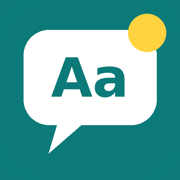
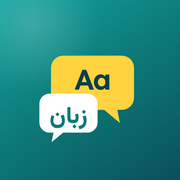
لوگوی تازه، صفحهٔ ثبتنام/ورود استاندارد، چیدمان دسکتاپ با نوار کناری، دکمهٔ نصب برنامه، بهروزرسانی خودکار
Claude-Session: https://claude.ai/code/session_01TUVMHmv6wLjMQ2dWp24Uw7

diff --git a/app.js b/app.js
@@ -73,6 +73,7 @@ const makeCode = () => 'ZD1.' + btoa(unescape(encodeURIComponent(JSON.stringify(
 function useCode(c) { const d = JSON.parse(decodeURIComponent(escape(atob(c.trim().replace(/^ZD1\./, ''))))); deepMerge(G.settings.prov, d.p || {}); if (d.b) G.settings.brain = d.b; if (d.v) G.settings.voiceFa = d.v; if (d.l) G.settings.listen = d.l; saveG('settings'); }
 function deepMerge(a, b) { for (const k in b) { if (b[k] && typeof b[k] === 'object' && !Array.isArray(b[k])) a[k] = deepMerge(a[k] || {}, b[k]); else a[k] = b[k]; } return a; }
 const saveG = k => lsSet('zd:' + k, G[k]);
+G.settings.passScore = 95;
 if (G.settings.teacher === 'سارا') { G.settings.teacher = 'رستا'; lsSet('zd:settings', G.settings); }
 if (G.settings.prov.gemini.model === 'gemini-2.5-flash') { G.settings.prov.gemini.model = 'gemini-3.1-flash-lite'; G.settings.geminiTtsModel = 'gemini-3.8-flash-tts'; saveG('settings'); }
 const GEM_FALLBACK = ['gemini-3.1-flash-lite', 'gemini-3.5-flash', 'gemini-flash-latest', 'gemini-3.5-flash-lite'];
@@ -117,7 +118,7 @@ function weakWords(limit = 20) {
   return Object.entries(U.srs).filter(([, s]) => s.wrong > 0 && s.box <= 2).sort((a, b) => b[1].wrong - a[1].wrong).slice(0, limit).map(([k]) => wordFromId(k)).filter(Boolean);
 }
 function forgottenFromPrevious(cur) { // واژههای درسهای قبل که فراموش شدهاند
-  return Object.entries(U.srs).filter(([k, s]) => { const u = unitById(k.split(':')[0]); return u && cur && u.idx < cur.idx && s.lastWrong && s.box <= 1; }).slice(0, 12).map(([k]) => wordFromId(k)).filter(Boolean);
+  return Object.entries(U.srs).filter(([k, s]) => { const u = unitById(k.split(':')[0]); return u && cur && u.id !== cur.id && (u.track === 'ws' ? isMastered(u) : u.idx < cur.idx) && s.lastWrong && s.box <= 1; }).slice(0, 12).map(([k]) => wordFromId(k)).filter(Boolean);
 }
 
 /* ───────── پیشرفت، باز شدن درسها و امتیاز ───────── */
@@ -513,6 +514,23 @@ function sheet(html) { const bg = document.createElement('div'); bg.className = 
 const loading = (t = 'در حال فکر کردن…') => `<div class="card row"><span class="typing"><i></i><i></i><i></i></span><span class="muted">${t}</span></div>`;
 function needAI(el) { if (hasAI() || firstKeyed()) return false; el.innerHTML = `<div class="card stack"><b>این بخش با هوش مصنوعی کار میکند.</b><span class="muted">یک کلید رایگان Gemini بگیر و در تنظیمات بگذار؛ دو دقیقه طول میکشد.</span><a class="btn" href="#settings">رفتن به تنظیمات</a></div>`; return true; }
 
+/* ───────── نصب برنامه (آیکن روی صفحهٔ گوشی و کامپیوتر) ───────── */
+let installEvt = null;
+addEventListener('beforeinstallprompt', e => { e.preventDefault(); installEvt = e; if (location.hash === '' || location.hash === '#home') { const b = $('#install-box'); if (b) b.innerHTML = installHTML(); bindInstall(); } });
+addEventListener('appinstalled', () => { installEvt = null; toast('«زبان دوم» نصب شد 🎉 از این به بعد از آیکنش وارد شو.'); $('#install-box') && ($('#install-box').innerHTML = ''); });
+const isStandalone = () => matchMedia('(display-mode: standalone)').matches || navigator.standalone === true;
+const isIOS = () => /iphone|ipad|ipod/i.test(navigator.userAgent) || (navigator.platform === 'MacIntel' && navigator.maxTouchPoints > 1);
+function installHTML() { if (isStandalone() || lsGet('zd:installHide', '') === isoDay()) return ''; if (!installEvt && !isIOS()) return ''; return `<div class="install"><img src="icon-192.png" alt="" style="width:40px;height:40px;border-radius:10px"><b>«زبان دوم» را روی ${isIOS() ? 'آیفونت' : 'دستگاهت'} نصب کن تا همیشه با یک لمس بازش کنی.</b><button id="inst">نصب</button><button id="insx" aria-label="بعداً" style="background:transparent;color:inherit;padding:8px">✕</button></div>`; }
+function bindInstall() {
+  $('#insx') && ($('#insx').onclick = () => { lsSet('zd:installHide', isoDay()); $('#install-box').innerHTML = ''; });
+  $('#inst') && ($('#inst').onclick = async () => {
+    if (installEvt) { installEvt.prompt(); const r = await installEvt.userChoice; if (r.outcome === 'accepted') installEvt = null; return; }
+    sheet(`<div class="stack" style="text-align:center"><img src="icon-192.png" alt="" style="width:72px;height:72px;border-radius:18px;align-self:center"><b style="font-size:18px">نصب روی آیفون</b>
+    <div class="stack" style="text-align:right"><div>۱. این صفحه باید در <b>Safari</b> باز باشد.</div><div>۲. دکمهٔ <b>اشتراکگذاری</b> را بزن (مربع با فلش رو به بالا، پایین صفحه).</div><div>۳. کمی پایین برو و <b>Add to Home Screen</b> را بزن.</div><div>۴. بالا سمت راست <b>Add</b> را بزن.</div></div>
+    <div class="notice soft small">از این به بعد آیکن «زبان دوم» روی صفحهٔ گوشی است و مثل یک اپ بدون نوار آدرس باز میشود.</div><button class="btn" onclick="this.closest('.sheet-bg').remove()">فهمیدم</button></div>`);
+  });
+}
+
 /* ───────── مسیریاب ───────── */
 const routes = {};
 function router() {
@@ -529,28 +547,30 @@ addEventListener('hashchange', router);
 /* ───────── خوشآمد و کاربران ───────── */
 const avHTML = u => u?.photo ? `<img src="${u.photo}" alt="" style="width:100%;height:100%;border-radius:50%;object-fit:cover">` : esc(u?.avatar || '🙂');
 const AVATARS = ['🦊', '🐼', '🦁', '🐯', '🐨', '🦉', '🐬', '🦄', '🐙', '🐝', '🌵', '🚀'];
-function viewWelcome() {
-  $('#top').innerHTML = '<h1>زبان دوم</h1>'; $('nav.bottom').hidden = true;
-  view().innerHTML = `<div class="stack">
-  <div class="today"><div class="big-ic">👋</div><b style="font-size:20px">به «زبان دوم» خوش آمدی</b><span class="muted">معلم هوشمندی که با تو فارسی حرف میزند، انگلیسی را از واژه تا مکالمهٔ روان قدمبهقدم یادت میدهد و هیچ درسی را فراموش نمیکنی.</span></div>
-  <div class="card stack"><b style="font-size:17px">ثبتنام</b>
-  <label class="f">اسمت چیست؟<input id="nm" class="in" placeholder="مثلاً رستا" maxlength="24"></label>
-  <label class="f">ایمیل (برای ساختن حساب، یوزرنیم، رقابت با بقیه و ورود دوباره)<input id="em0" class="in" dir="ltr" type="email" autocomplete="email" placeholder="you@gmail.com"></label>
-  <div class="small muted">شکلک پروفایل (بعداً میتوانی عکس خودت را بگذاری):</div>
-  <div class="row" id="av">${AVATARS.map((a, i) => `<button class="icon-btn${i ? '' : ' on'}" data-a="${a}" style="font-size:20px">${a}</button>`).join('')}</div>
+function viewWelcome(tab = 'up') {
+  $('#top').innerHTML = ''; $('nav.bottom').hidden = true;
+  view().innerHTML = `<div class="auth">
+  <div class="hero2"><img class="logo" src="icon-192.png" alt=""><h2>انگلیسی را مثل یک گفتگوی واقعی یاد بگیر</h2>
+  <span style="opacity:.85">معلم هوشمندی که با تو فارسی حرف میزند و قدمبهقدم تا مکالمهٔ روان همراهت است.</span>
+  <ul><li>معلم صوتی با لهجهٔ آمریکایی یا بریتانیایی</li><li>فلشکارت هوشمند؛ هیچ واژهای فراموش نمیشود</li><li>تقویم شمسی و برنامهٔ شخصی تا رسیدن به هدف</li><li>انجمن، رقابت و داستانهای صوتی</li></ul></div>
+  <div class="form"><div class="tabs"><button data-t="up" class="${tab === 'up' ? 'on' : ''}">ثبتنام</button><button data-t="in" class="${tab === 'in' ? 'on' : ''}">ورود</button></div>
+  ${tab === 'up' ? `<label class="f">نام<input id="nm" class="in" placeholder="مثلاً رستا" maxlength="24" autocomplete="given-name"></label>` : ''}
+  <label class="f">ایمیل<input id="em0" class="in" dir="ltr" type="email" autocomplete="email" placeholder="you@gmail.com"></label>
+  ${tab === 'up' ? `<div class="small muted">تصویر پروفایل</div><div class="row" id="av">${AVATARS.map((a, i) => `<button class="icon-btn${i ? '' : ' on'}" data-a="${a}" style="font-size:20px">${a}</button>`).join('')}</div>` : '<span class="small muted">لینک ورود به ایمیلت فرستاده میشود؛ رمز لازم نیست.</span>'}
   <details><summary class="small">کد اتصال هوش مصنوعی دارم</summary><input id="cd" class="in" dir="ltr" placeholder="ZD1…" style="margin-top:6px"></details>
-  <button class="btn wide" id="go">ثبتنام و شروع</button>
-  <button class="btn line wide" id="go2">بدون حساب امتحان میکنم</button>
-  <div class="small muted" style="text-align:center">قبلاً ثبتنام کردهای؟ همینجا اسم و ایمیلت را بنویس و «ثبتنام و شروع» را بزن؛ لینک ورود برایت میآید.</div></div></div>`;
+  <button class="btn wide" id="go">${tab === 'up' ? 'ساخت حساب' : 'فرستادن لینک ورود'}</button>
+  ${tab === 'up' ? '<button class="btn line wide" id="go2">فعلاً بدون حساب امتحان میکنم</button>' : ''}
+  <span class="tiny muted" style="text-align:center">با ثبتنام، یوزرنیم و صفحهٔ اختصاصی میگیری و پیشرفتت در جدول رقابت دیده میشود.</span></div></div>`;
+  $$('.tabs button').forEach(b => b.onclick = () => viewWelcome(b.dataset.t));
   let av = AVATARS[0]; $$('#av button').forEach(b => b.onclick = () => { $$('#av button').forEach(x => x.classList.remove('on')); b.classList.add('on'); av = b.dataset.a; });
   const start = (withEmail) => {
-    const n = $('#nm').value.trim(); if (!n) return toast('اسمت را بنویس.');
-    const email = $('#em0').value.trim(); if (withEmail && !/^\S+@\S+\.\S+$/.test(email)) return toast('ایمیلت را درست بنویس (یا «بدون حساب» را بزن).');
+    const n = tab === 'in' ? 'کاربر' : $('#nm').value.trim(); if (!n) return toast('نامت را بنویس.');
+    const email = $('#em0').value.trim(); if (withEmail && !/^\S+@\S+\.\S+$/.test(email)) return toast('ایمیلت را درست بنویس.');
     const c = $('#cd').value.trim(); if (c) { try { useCode(c); toast('هوش مصنوعی وصل شد ✓'); } catch { return toast('کد اتصال درست نیست؛ دوباره کپی کن.'); } }
-    addUser(n, av); $('nav.bottom').hidden = false; go('guide'); router();
-    if (withEmail && window.loginSheet) setTimeout(() => { loginSheet(() => go('home')); window._loginSheetEmail && _loginSheetEmail(email); }, 300);
+    addUser(n, av); $('nav.bottom').hidden = false; go(tab === 'in' ? 'home' : 'guide'); router();
+    if (withEmail && window.loginSheet) setTimeout(() => { loginSheet(async p => { if (tab === 'in' && p?.display_name) { me().name = p.display_name; if (p.avatar) me().avatar = p.avatar; if (p.photo) me().photo = p.photo; saveG('users'); router(); } }); window._loginSheetEmail && _loginSheetEmail(email); }, 300);
   };
-  $('#go').onclick = () => start(true); $('#go2').onclick = () => start(false);
+  $('#go').onclick = () => start(true); $('#go2') && ($('#go2').onclick = () => start(false));
 }
 function addUser(name, avatar) { const u = { id: uid(), name, avatar, created: isoDay() }; G.users.push(u); saveG('users'); loadUser(u.id); saveU(); return u; }
 routes.users = () => {
@@ -586,6 +606,7 @@ routes.home = () => {
     <ul class="tasks">${tasks.map(t => `<li class="${taskDone(t) ? 'done' : ''}"><span class="chk">${taskDone(t) ? '✓' : ''}</span>${esc(t.t)}</li>`).join('')}</ul>
     <div class="row"><a class="btn" href="#unit/${cur.id}">ادامهٔ یادگیری</a>${due ? `<a class="btn ghost" style="background:transparent;color:inherit;box-shadow:inset 0 0 0 1.5px currentColor" href="#cards/due">مرور ${faNum(due)} واژه</a>` : ''}</div>
   </div>
+  <div id="install-box">${installHTML()}</div>
   <div id="online-home"></div>
   ${planGap() > 0 ? `<div class="notice stack"><b>⚠ ${faNum(planGap())} درس از برنامهات عقبی</b><span class="small">هدفت عقب نمیافتد: برنامهٔ جبرانی همان تاریخ پایان را نگه میدارد و وقت روزانه را کمی بیشتر میکند.</span><button class="btn sm" id="cu" style="align-self:flex-start">ساخت برنامهٔ جبرانی</button></div>` : ''}
   ${!hasAI() && !firstKeyed() ? `<div class="notice">برای فعال شدن معلم صوتی و گفتگو، در <a href="#settings">تنظیمات</a> یک کلید رایگان Gemini بگذار.</div>` : ''}
@@ -605,7 +626,7 @@ routes.home = () => {
   ${!U.placement ? `<a class="btn ghost wide" href="#placement">تعیین سطح با هوش مصنوعی</a>` : ''}
   </div>`;
   $$('[data-u]').forEach(b => b.onclick = () => { loadUser(b.dataset.u); router(); });
-  window.homeOnline && homeOnline();
+  window.homeOnline && homeOnline(); bindInstall();
   $('#cu') && ($('#cu').onclick = () => { catchUpPlan(); toast(`برنامهٔ جبرانی ساخته شد: روزی ${faNum(U.plan.minutes)} دقیقه تا همان تاریخ هدف.`, 5000); go('plan'); });
   if (!U.plan && !lsGet('zd:planAsked:' + G.active, false)) { setTimeout(() => { if (!['', '#home'].includes(location.hash) || $('.sheet-bg')) return; lsSet('zd:planAsked:' + G.active, true); const bg = sheet(`<div class="stack"><div class="big-ic">🗓</div><b>برنامهٔ شخصیات را بسازیم؟</b><span class="small muted">بگو تا کی میخواهی به کجا برسی و روزی چقدر وقت داری؛ برنامه روی تقویم شمسی چیده میشود، یادآوری میکند و اگر عقب بیفتی برنامهٔ جبرانی میدهد.</span><a class="btn" href="#plan" onclick="this.closest('.sheet-bg').remove()">بله، بسازیم</a><button class="btn ghost" onclick="this.closest('.sheet-bg').remove()">بعداً</button></div>`); }, 800); }
 };
@@ -1278,11 +1299,11 @@ routes.settings = () => {
   <div class="card stack"><b>تصاویر واژهها</b>${seg('img', [['ai', 'تصویرسازی AI'], ['photo', 'عکس رایگان واقعی'], ['emoji', 'فقط ایموجی (سریعترین)']], S.img)}
   <input class="in" dir="ltr" id="pk" placeholder="Pixabay API key (اختیاری، برای عکس بهتر)" value="${esc(S.pixabayKey)}"><button class="btn line sm" id="ci">پاک کردن تصاویر ذخیرهشده</button></div>
 
-  <div class="card stack"><b>آموزش</b><div class="grid2"><label class="f">نام معلم<input class="in" id="tn" value="${esc(S.teacher)}"></label><label class="f">حد قبولی آزمون درس<input class="in" type="number" min="60" max="100" id="ps" value="${S.passScore}"></label></div>
+  <div class="card stack"><b>آموزش</b><div class="grid2"><label class="f">نام معلم<input class="in" id="tn" value="${esc(S.teacher)}"></label><div class="f">حد قبولی آزمون درس<div class="in" style="display:flex;align-items:center">${faNum(95)} (ثابت)</div></div></div>
   <label class="f">ظاهر</label>${seg('theme', [['auto', 'خودکار'], ['light', 'روشن'], ['dark', 'تیره']], S.theme)}</div>
   <button class="btn" id="sv">ذخیرهٔ تنظیمات</button></div>`;
   $$('[data-seg]').forEach(g => g.onclick = e => { const b = e.target.closest('button'); if (!b) return; $$('button', g).forEach(x => x.classList.remove('on')); b.classList.add('on'); S[g.dataset.seg] = b.dataset.v; if (g.dataset.seg === 'theme') applyTheme(); saveG('settings'); });
-  const collect = () => { S.brain = $('#brain').value; $$('[data-k]').forEach(i => S.prov[i.dataset.k].key = i.value.trim()); $$('[data-m]').forEach(i => S.prov[i.dataset.m].model = i.value.trim()); $$('[data-b]').forEach(i => S.prov[i.dataset.b].base = i.value.trim()); S.geminiVoice = $('#gv').value; S.openaiVoice = $('#ov').value; S.rate = +$('#rate').value; S.autoSpeak = $('#as').checked; S.pixabayKey = $('#pk').value.trim(); S.teacher = $('#tn').value.trim() || 'رستا'; S.passScore = clamp(+$('#ps').value || 95, 60, 100); saveG('settings'); };
+  const collect = () => { S.brain = $('#brain').value; $$('[data-k]').forEach(i => S.prov[i.dataset.k].key = i.value.trim()); $$('[data-m]').forEach(i => S.prov[i.dataset.m].model = i.value.trim()); $$('[data-b]').forEach(i => S.prov[i.dataset.b].base = i.value.trim()); S.geminiVoice = $('#gv').value; S.openaiVoice = $('#ov').value; S.rate = +$('#rate').value; S.autoSpeak = $('#as').checked; S.pixabayKey = $('#pk').value.trim(); S.teacher = $('#tn').value.trim() || 'رستا'; S.passScore = 95; saveG('settings'); };
   $('#rate').oninput = e => $('#rv').textContent = e.target.value;
   $('#mkc').onclick = async () => { collect(); if (!firstKeyed()) return toast('اول یک کلید وارد کن.'); const c = makeCode(); $('#cc').value = c; try { await navigator.clipboard.writeText(c); toast('کد اتصال کپی شد؛ در واتساپ یا تلگرام بفرست.'); } catch { $('#cc').select(); toast('کد را از کادر زیر کپی کن.'); } };
   $('#usc').onclick = () => { try { useCode($('#cc').value); toast('هوش مصنوعی وصل شد ✓'); routes.settings(); } catch { toast('کد اتصال درست نیست.'); } };
@@ -1297,4 +1318,5 @@ function applyTheme() { const t = G.settings.theme; if (t === 'auto') document.d
 
 /* ───────── شروع ───────── */
 applyTheme();
-if ('serviceWorker' in navigator && location.protocol.startsWith('http')) navigator.serviceWorker.register('sw.js').catch(() => { });
+if ('serviceWorker' in navigator && location.protocol.startsWith('http')) { navigator.serviceWorker.register('sw.js').then(r => r.update()).catch(() => { }); let reloaded = false; const hadCtl = !!navigator.serviceWorker.controller; navigator.serviceWorker.addEventListener('controllerchange', () => { if (reloaded || !hadCtl) return; reloaded = true; if (!/^#(teach|talk|exam|rooms|read|theater)/.test(location.hash)) location.reload(); }); }
+try { navigator.storage?.persist?.(); } catch { } // جلوگیری از پاک شدن خودکار دادهها توسط مرورگر

diff --git a/styles.css b/styles.css
@@ -213,3 +213,43 @@ details.card summary{font-weight:800;cursor:pointer}
 .list{margin:0;padding-inline-start:18px}
 .kbd{font-family:var(--en);background:var(--sunk);padding:0 6px;border-radius:6px;font-size:13px}
 hr.sep{border:0;border-top:1px solid var(--line);margin:4px 0}
+
+/* ───── چیدمان استاندارد دسکتاپ: نوار کناری بهجای نوار پایین ───── */
+nav.bottom .brand{display:none}
+@media (min-width:900px){
+  body{font-size:15.5px}
+  nav.bottom{inset:0 0 0 auto;width:232px;border-top:0;border-left:1px solid var(--line);padding:calc(18px + env(safe-area-inset-top,0px)) 14px 18px}
+  nav.bottom .in{display:flex;flex-direction:column;height:auto;gap:4px;max-width:none}
+  nav.bottom .brand{display:flex;align-items:center;gap:10px;padding:4px 10px 18px;font-weight:900;font-size:19px;color:var(--ink);text-decoration:none}
+  nav.bottom .brand img{width:36px;height:36px;border-radius:10px}
+  nav.bottom a{flex-direction:row;justify-content:flex-start;gap:12px;font-size:14.5px;padding:11px 12px;border-radius:12px}
+  nav.bottom a:hover{background:var(--sunk)}
+  nav.bottom a.on{background:var(--accent-soft)}
+  body{padding-right:232px}
+  .app{max-width:1080px;margin:0 auto;padding-left:40px;padding-right:40px;padding-bottom:40px}
+  .composer{bottom:16px}
+  #toast{bottom:24px;left:calc(50% - 116px)}
+  .topbar{background:var(--bg)}
+  .words{grid-template-columns:repeat(2,minmax(0,1fr))}
+  .units{grid-template-columns:repeat(auto-fill,minmax(180px,1fr))}
+  .sheet-bg{align-items:center}
+  .sheet{border-radius:20px;max-width:620px}
+}
+@media (min-width:1300px){.words{grid-template-columns:repeat(3,minmax(0,1fr))}}
+
+/* ───── صفحهٔ ورود و ثبتنام ───── */
+.auth{display:grid;gap:20px;align-items:stretch;padding-block:24px}
+@media (min-width:900px){.auth{grid-template-columns:1.1fr 1fr;min-height:calc(100vh - 140px);align-items:center}}
+.auth .hero2{background:var(--ink);color:var(--bg);border-radius:24px;padding:32px;display:flex;flex-direction:column;gap:14px}
+.auth .hero2 h2{margin:0;font-size:28px;line-height:1.4}
+.auth .hero2 ul{margin:0;padding-inline-start:20px;display:flex;flex-direction:column;gap:6px;opacity:.9}
+.auth .logo{width:64px;height:64px;border-radius:18px}
+.auth .form{background:var(--surface);border-radius:24px;padding:28px;box-shadow:0 0 0 1px var(--line),0 12px 40px rgb(0 0 0 / .06);display:flex;flex-direction:column;gap:14px}
+.tabs{display:grid;grid-template-columns:1fr 1fr;background:var(--sunk);border-radius:12px;padding:4px;gap:4px}
+.tabs button{border:0;background:transparent;border-radius:9px;padding:9px;font-weight:800}
+.tabs button.on{background:var(--surface);color:var(--accent);box-shadow:0 1px 3px rgb(0 0 0 / .1)}
+
+@media (max-width:899px){.auth{padding-block:12px}.auth .form{order:-1;padding:20px}.auth .hero2{padding:20px}.auth .hero2 ul,.auth .hero2 .logo{display:none}.auth .hero2 h2{font-size:20px}}
+.install{display:flex;gap:10px;align-items:center;background:var(--accent);color:var(--accent-ink);border-radius:14px;padding:10px 14px}
+.install b{flex:1}
+.install button{border:0;border-radius:10px;padding:8px 14px;font-weight:800;background:var(--accent-ink);color:var(--accent)}

diff --git a/online.js b/online.js
@@ -61,7 +61,7 @@ async function handleAuthRedirect() {
   history.replaceState(null, '', location.pathname + '#home');
   const s = await session(); if (!s) { toast('ورود کامل نشد؛ لینک منقضی شده بود. دوباره کد بخواه.', 5000); return router(); }
   const p = await myProfile(true); router();
-  if (p) { U.online = { uid: p.id, username: p.username }; saveU(); toast('خوش آمدی @' + p.username + ' 🎉'); syncNow(); return; }
+  if (p) { U.online = { uid: p.id, username: p.username }; saveU(); if (['کاربر', ''].includes(me().name)) { me().name = p.display_name; if (p.photo) me().photo = p.photo; if (p.avatar) me().avatar = p.avatar; saveG('users'); router(); } toast('خوش آمدی @' + p.username + ' 🎉'); syncNow(); return; }
   const bg = sheet(`<div class="stack"><b style="font-size:18px">ایمیلت تأیید شد ✓</b><label class="f">یک یوزرنیم انتخاب کن (حروف انگلیسی کوچک، عدد و _ ؛ ۳ تا ۲۰ حرف)<input id="un" class="in" dir="ltr" maxlength="20" value="${esc((s.user.email || '').split('@')[0].toLowerCase().replace(/[^a-z0-9_]/g, '').slice(0, 20))}"></label><span class="tiny muted" id="unh"></span><button class="btn" id="mk">ساخت صفحهٔ من</button></div>`);
   $('#mk', bg).onclick = async () => { const un = $('#un', bg).value.trim().toLowerCase(); if (!/^[a-z0-9_]{3,20}$/.test(un)) return $('#unh', bg).textContent = 'یوزرنیم معتبر نیست.';
     const { error } = await sb().from('profiles').insert({ id: s.user.id, username: un, display_name: me().name, avatar: me().avatar, photo: me().photo || null });

diff --git a/sw.js b/sw.js
@@ -1,5 +1,5 @@
 /* زبان دوم — کار آفلاین و سرعت: پوستهٔ برنامه از حافظه باز میشود */
-const V = 'zd-v10';
+const V = 'zd-v11';
 const SHELL = ['./', 'index.html', 'styles.css', 'data.js', 'app.js', 'library.js', 'dict.js', 'extras.js', 'supabase.js', 'online.js', 'manifest.webmanifest', 'icon-192.png', 'icon-512.png', 'vazir-400.woff2', 'vazir-700.woff2', 'vazir-800.woff2', 'vazir-latin-400.woff2', 'vazir-latin-700.woff2', 'vazir-latin-800.woff2', 'lexend-400.woff2', 'lexend-600.woff2'];
 self.addEventListener('install', e => { e.waitUntil(caches.open(V).then(c => c.addAll(SHELL)).then(() => self.skipWaiting())); });
 self.addEventListener('activate', e => { e.waitUntil(caches.keys().then(ks => Promise.all(ks.filter(k => k !== V && k !== 'zd-media').map(k => caches.delete(k)))).then(() => self.clients.claim())); });

diff --git a/index.html b/index.html
@@ -22,6 +22,7 @@
   <main id="view"></main>
 </div>
 <nav class="bottom" aria-label="ناوبری اصلی"><div class="in">
+  <a class="brand" href="#home"><img src="icon-192.png" alt="">زبان دوم</a>
   <a href="#home" data-r="home"><svg viewBox="0 0 24 24" fill="none" stroke="currentColor" stroke-width="2"><path d="M3 11l9-7 9 7v9a1 1 0 0 1-1 1h-5v-6H9v6H4a1 1 0 0 1-1-1z"/></svg>خانه</a>
   <a href="#plan" data-r="plan"><svg viewBox="0 0 24 24" fill="none" stroke="currentColor" stroke-width="2"><rect x="3" y="5" width="18" height="16" rx="2"/><path d="M3 10h18M8 3v4M16 3v4"/></svg>تقویم</a>
   <a href="#library" data-r="library"><svg viewBox="0 0 24 24" fill="none" stroke="currentColor" stroke-width="2"><path d="M4 19V5a2 2 0 0 1 2-2h13v16H6a2 2 0 0 0-2 2zM19 19v2H6"/></svg>کتابخانه</a>
